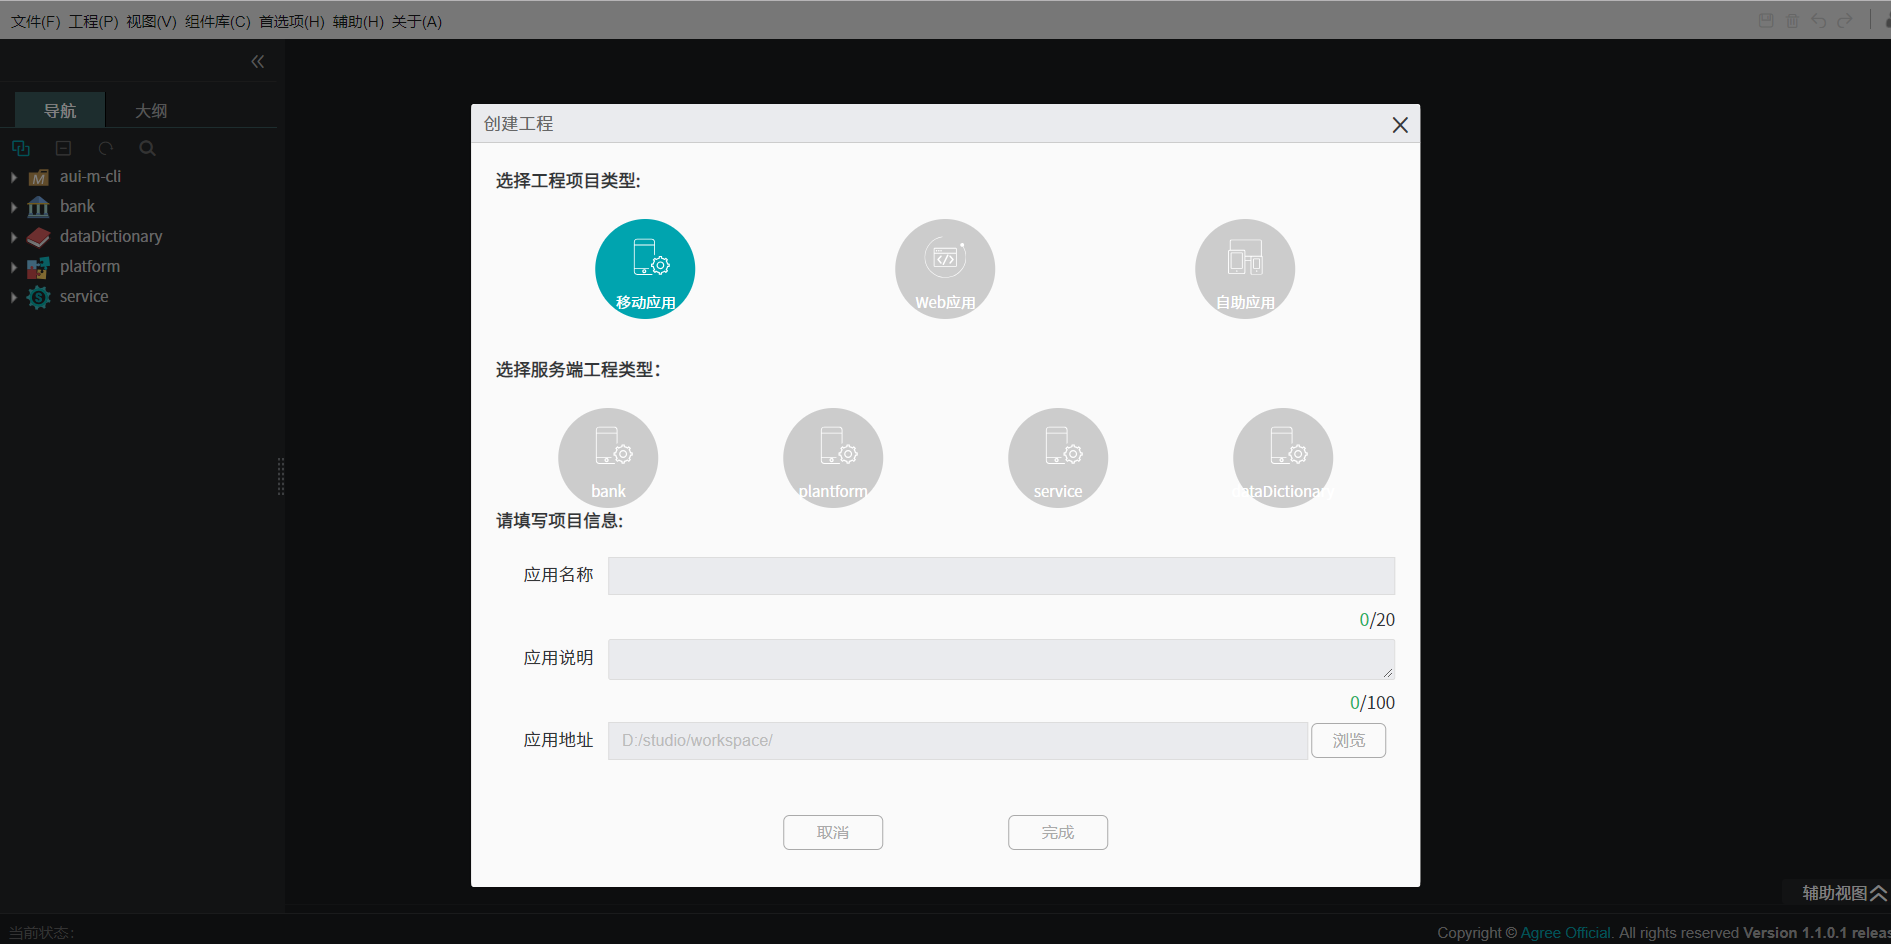
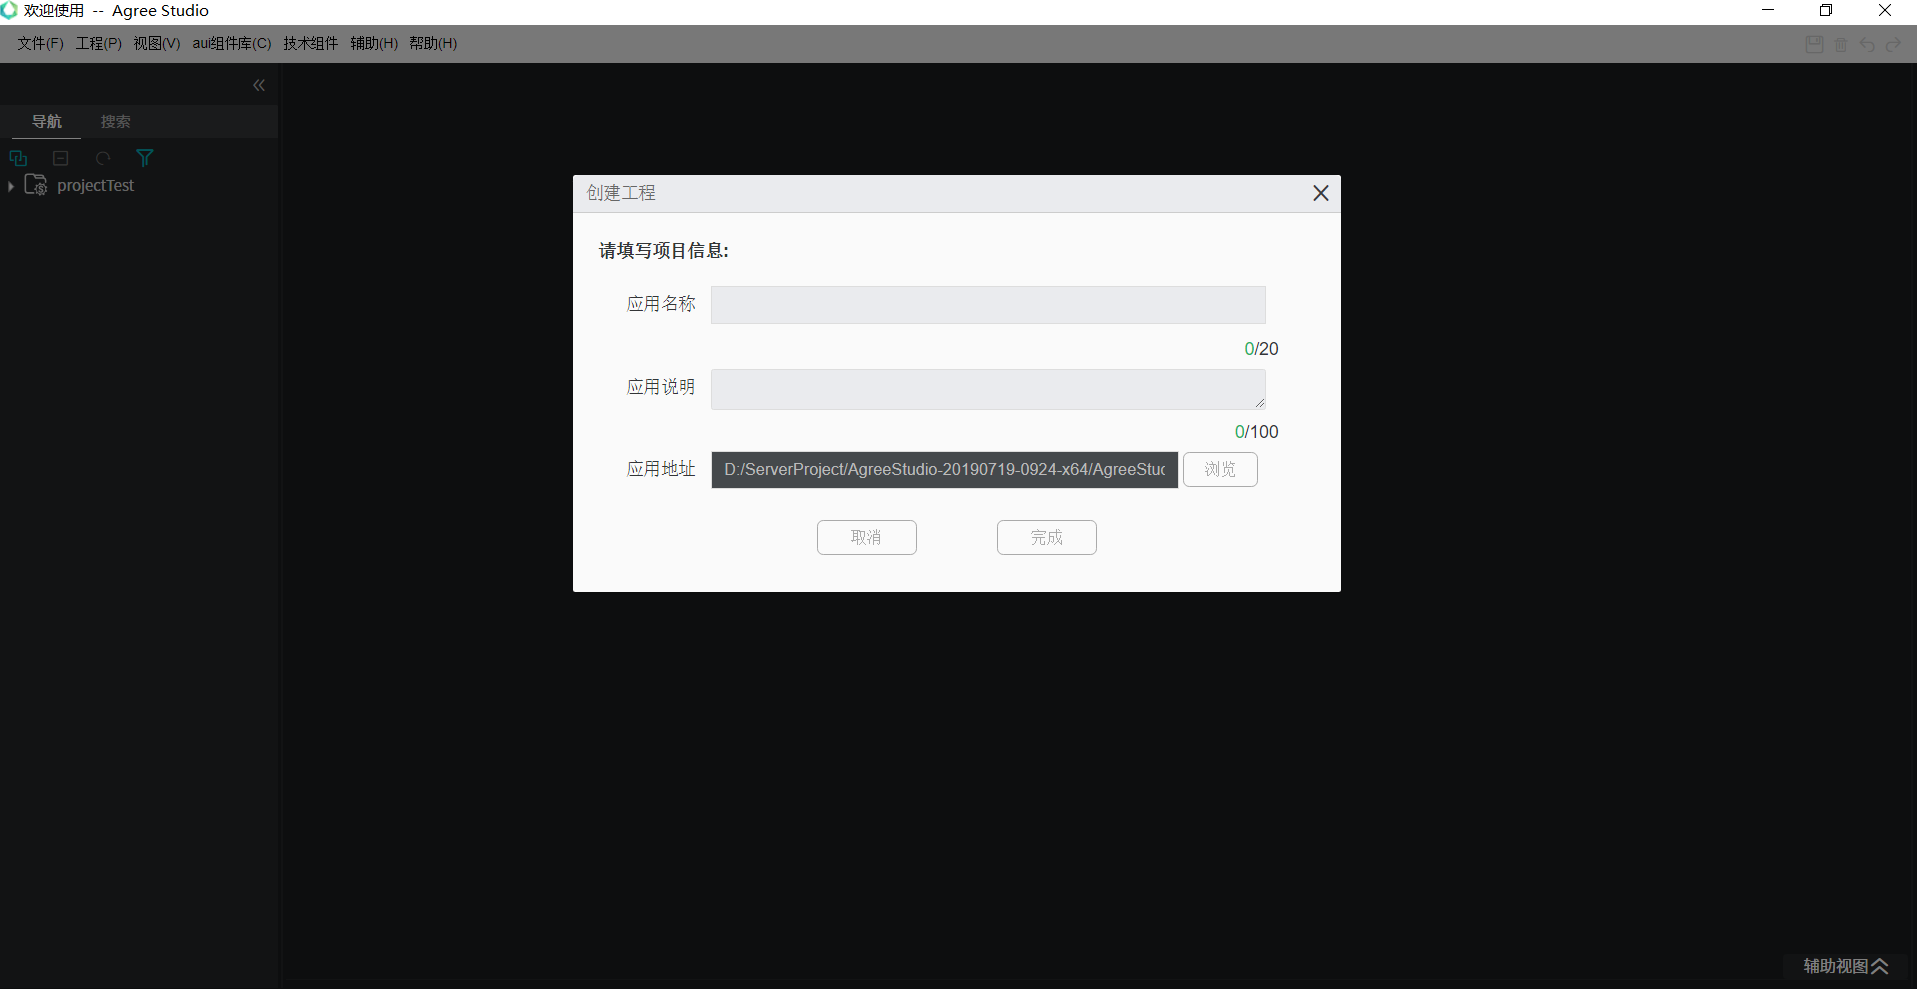
更新github说明文档

diff --git a/user-gride.md b/user-gride.md
@@ -2,8 +2,8 @@
 ## 1. 工程相关操作
 
 ### 1.1 创建工程
-1. 顶部菜单栏选择 [工程] - [创建工程]
-2. 选择工程类型,填写工程项目信息,[应用名称],[应用说明],[应用地址]----工程文件要保存的地址,默认为workspace路径下。
+1. 顶部菜单栏选择 [工程] - [创建工程] -[选择工程类型]
+2. 填写工程项目信息,[应用名称],[应用说明],[应用地址]----工程文件要保存的地址,默认为workspace路径下。
 ![创建工程](/images/user-guide/创建工程.png)
 3. 点击浏览，会弹出浏览文件夹的弹窗，选择想要放置创建工程的路径。
 ![创建工程](/images/user-guide/浏览文件夹.gif)
@@ -11,24 +11,24 @@
 
 ### 1.2 启动工程
 
-1.  顶部菜单栏选择 [工程] - [启动工程] 用以启动工程，只有当工程正常启动后，vueEditor 才可以正常工作。
-2.  当用户创建，导入，AgreeStudio 会默认启动工程，但当工程由于某些原因无法启动时，需要用户先处理问题再手动启动工程。
+1.  顶部菜单栏选择 [工程] - [启动工程] 用以启动工程，只有当工程正常启动后，vueMDEditor 才可以正常工作。
+2.  当用户创建，导入，AgreeStudio 会提示用户是否直接启动工程，或者安装依赖并启动。
 3.  启动工程时，AgreeStudio 能简单提示工程是否启动，以及失败原因以及错误码并且展示在辅助视图中。
-    ![启动工程](/images/user-guide/启动工程.png)
+    ![启动工程](/images/user-guide/启动工程.gif)
 
 ### 1.3 导入工程
-1.  顶部菜单栏选择 [工程] - [导入工程] 会展示之前导入过agreeStudio的工程。![导入工程](/images/user-guide/导入工程.png)
+1.  顶部菜单栏选择 [工程] - [导入工程] 会展示之前导入过agreeStudio的工程。![导入工程](/images/user-guide/导入工程.gif)
 2.  点击菜单中的更多，会弹窗选择导入新的工程。
-
+3.  前端工程只允许存在一个，当用户导入或创建是会提示给用户已存在前端工程是否继续
 ## 2. 工程文件(夹)相关操作
 
 ### 2.1 新建文件(夹)
 1. 在文件树文件(夹)右键 - [新建文件(夹)]
 ![新建文件](/images/user-guide/新建文件1.png)
 2. 在对话框中输入文件(夹)名
-![新建文件](/images/user-guide/新建文件2.png)
+![新建文件](/images/user-guide/新建文件2.gif)
 3. 文件名通过校验后，创建文件(夹)成功
-![新建文件](/images/user-guide/新建文件3.png)
+
 
 ### 2.2 重命名文件(夹)
 1. 在文件树文件(夹)右键 - [重命名]
@@ -56,6 +56,13 @@
   #### Vue-md 页面编辑
   1.文件打开方式新增[vue编辑器(MD模式)],支持组件库快捷键输入。
   ![vue编辑器(MD模式)](/images/user-guide/vue编辑器(MD模式).gif)
+  #### aui组件库输入辅助提示
+  1.在MD编辑器模式下输入aui就会提示给用户，相应的组件。
+  ![输入辅助](/images/user-guide/aui输入辅助.gif)
+  #### SDK组件库输入辅助提示
+  1.在MD编辑器模式下输入AgreeASdk,SDK的组件就会提示给用户。
+  ![输入辅助](/images/user-guide/sdk输入辅助.gif)
+
 
   <!-- #### 可视化页面编辑
   *左侧选择 [页面] 进入页面编辑模式*
@@ -107,7 +114,7 @@
     ![样式表的修改](/images/user-guide/stylemodify.gif)
     点击要修改的样式表，就可以编辑该样式表 -->
 
-### 3.2 自定义组件
+<!-- ### 3.2 自定义组件
   1.在`{当前开发工程}/src/custom-components`文件夹右键 - [新建自定义组件] 输入自定义组件名称即可快速创建一个自定义组件
   ![创建自定义组件](/images/user-guide/创建自定义组件.gif)
   2.选择`{自定义组件名称}.vue`文件以添加页面元素与属性、事件等内容
@@ -116,7 +123,7 @@
   ![编辑自定义组件定义](/images/user-guide/编辑自定义组件定义.gif)
   4.点击下方[保存并同步到AgreeStudio]按钮，即可在工具箱中显示
   5.在工程页面中使用该组件
-  ![使用自定义组件](/images/user-guide/使用自定义组件.gif)
+  ![使用自定义组件](/images/user-guide/使用自定义组件.gif) -->
 
 ### 3.3 模版
 #### 3.3.1 创建模版应用工程
@@ -195,9 +202,12 @@
    #### 4.2.5 新建业务逻辑文件[lfc]
   - 说明：lfc文件建在business文件夹下
     ![新建lfc文件](/images/user-guide/新建lfc文件.gif)
+   #### 4.2.6 新建报文文件[rcd]
+  - 说明：rcd文件建在messages文件夹下
+    ![新建rcd文件](/images/user-guide/新建rcd文件.gif)
 
 ### 4.3 LFC文件编辑
-#### 基本操作
+#### 基本操作+
   - 从左侧工具箱选择节点，工具箱上方可搜索，按住节点并拖拽至画面中即可完成节点添加
   - 在节点中心拖拽出线至另一节点即可完成连线
   - 选择节点，右侧属性区'属性'页展示了该节点所有可编辑的属性
@@ -234,19 +244,24 @@
   #### 4.3.4 lfc文件引用ade、lfc，服务已发布成功的csd
   - 说明：lfc文件的引用，支持属性编辑功能， 弹窗支持快速搜索功能
   ![csd文件引用](/images/user-guide/lfc文件的引用.gif)
+   #### 4.3.5 csd文件内部创建lfc
+   - 说明：csd文件内部支持创建lfc,并自动关联该lfc
+  ![csd文件创建lfc](/images/user-guide/csd创建lfc.gif)
 
 ### 4.5 csd服务发布
   - 说明: 服务发布，第一次发布需要手动配置ip和端口, 发布需要等待一段时间，发布成功后会有提示弹窗
   ![服务发布](/images/user-guide/服务发布.gif)
   - 说明：发布成功后的弹窗
   ![服务发布成功](/images/user-guide/服务发布成功.png)
-
-## 5. 项目调试
+## 5. 服务部署
+#### 5.1 服务工程支持服务部署工程
+  ![服务部署](/images/user-guide/服务部署.gif)
+## 6. 项目调试
   支持通过devTools面板进行调试，可通过如下方式打开调试面板：
   1. F12热键打开
   2. 顶部菜单栏选择 [帮助] - [打开开发者工具]
 
-## 6. 首选项
+## 7. 首选项
   用户可通过首选项设置Agree Studio的各项配置
   1. 用户未设置首选项时，其默认值分别为：
     - 字体大小：14
@@ -258,9 +273,9 @@
   ![设置首选项](/images/user-guide/首选项.gif)
   
 
-## 7. 搜索
+## 8. 搜索
 *左侧选择 [搜索] 进入搜索视图，导航不再提供文件搜索功能*
-### 7.1 内容搜索 / 替换
+### 8.1 内容搜索 / 替换
 #### 普通模式
   - 选择'内容'页，在'内容'栏输入搜索的文件内容，工程类型勾选'前端'或'服务'即可对导航中的工程进行搜索
   - 搜索结束后点击任意一行结果即可快速定位内容
@@ -272,16 +287,16 @@
   - 使用方式与普通模式一致
   ![高级模式](/images/user-guide/高级模式.gif)
 
-### 7.2 文件搜索
+### 8.2 文件搜索
   - 选择'文件'页，输入文件名（支持带的`/`路径），即可搜索
   ![文件搜索](/images/user-guide/文件搜索.gif)
 
-## 8. 构建工程
+## 9. 构建工程
   1. 顶部菜单栏选择 [文件] - [构建工程]
   2. 等待底部状态栏显示 `工程构建成功` 即为构建成功，相关文件保存在`{Agree Studio根目录}\studiobuild\app\build`下
   
   ![构建工程](/images/user-guide/构建工程.png)
 
-## 9. 快捷操作
+## 10. 快捷操作
   通过快捷键[ctrl + l] 或顶部菜单栏选择 [辅助] - [热键展示] 查看Agree Studio支持的全部快捷键
   ![快捷键](/images/user-guide/快捷键.png)
